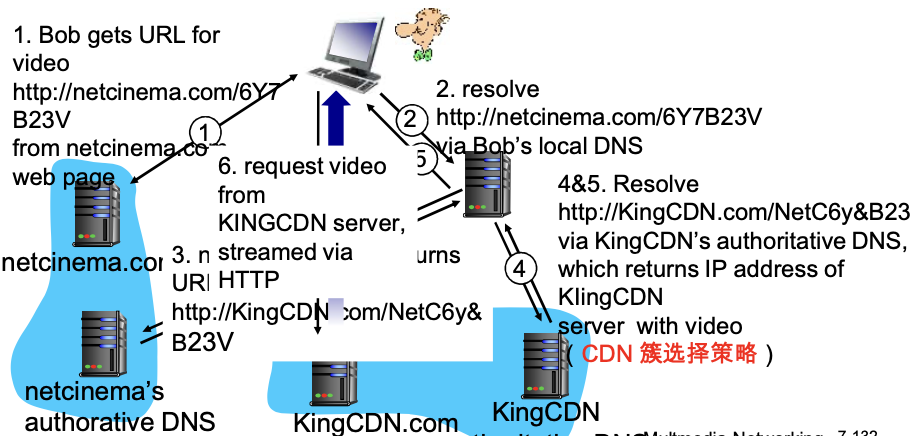
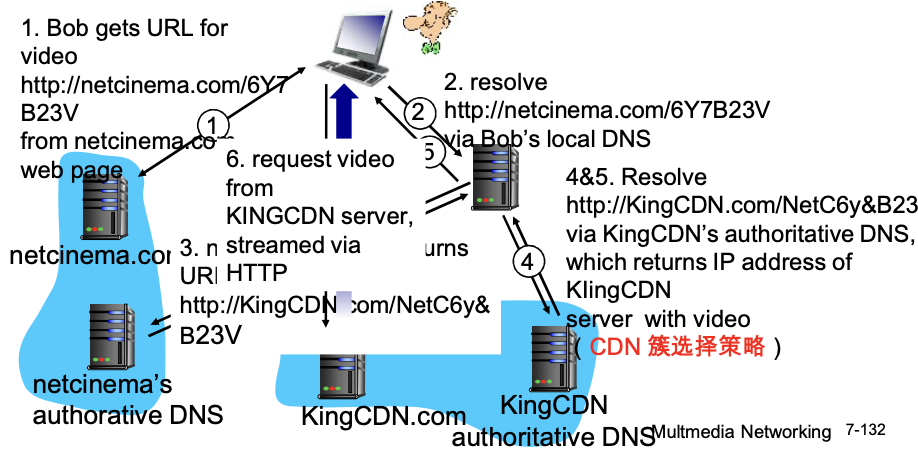
update the note

diff --git a/Chapter02_Application_Layer/2.7_CDN.md b/Chapter02_Application_Layer/2.7_CDN.md
@@ -235,7 +235,7 @@
 **流程**
 1. Bob从netcinema.com网页获取视频URL：`http://netcinema.com/6Y7B23V`
 2. 通过Bob的本地DNS解析`http://netcinema.com/6Y7B23V`
-3. netcinema的权威DNS返回URL：`http://KingCDN.com/NetC6y&B23V`
+3. netcinema的权威DNS返（域名解析重定向）URL：`http://KingCDN.com/NetC6y&B23V`
 4. 通过KingCDN的权威DNS解析`http://KingCDN.com/NetC6y&B23V`
 5. 返回KingCDN服务器的IP地址（CDN簇选择策略）
 6. Bob向KingCDN服务器请求视频